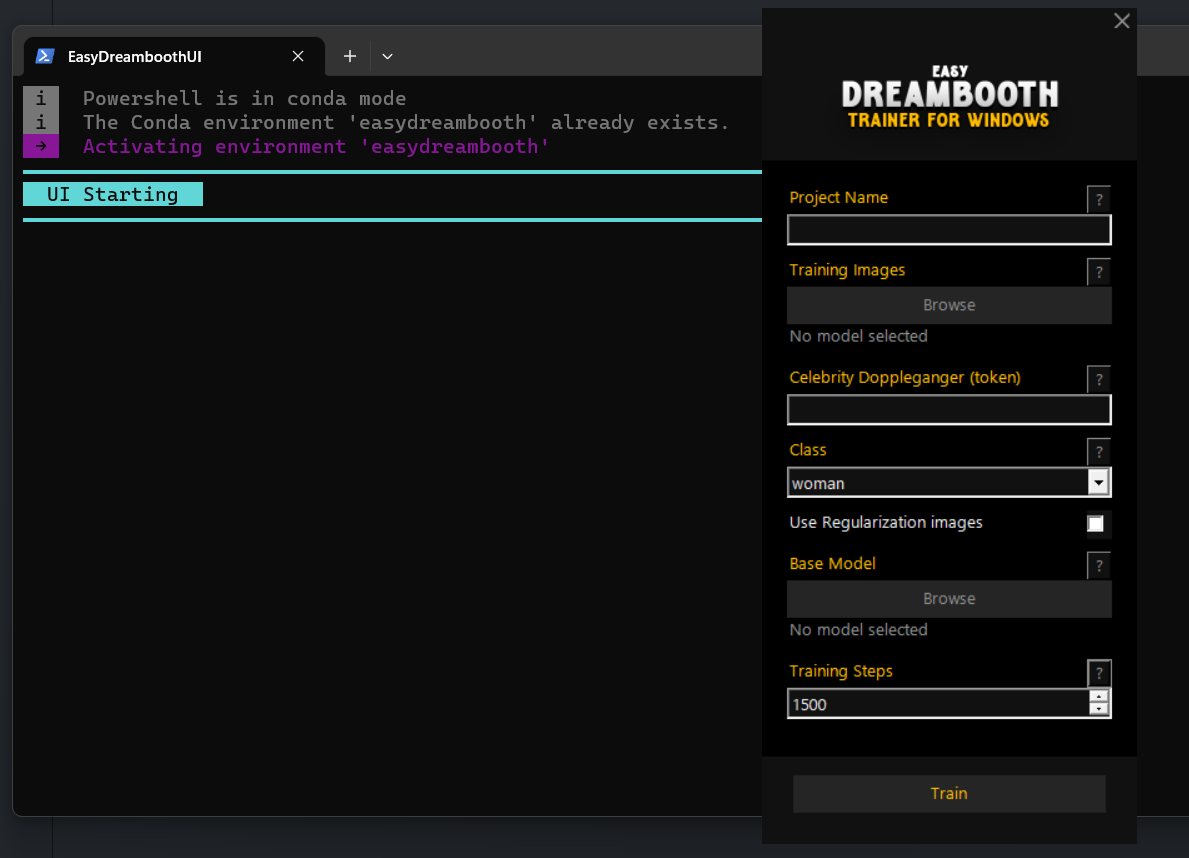
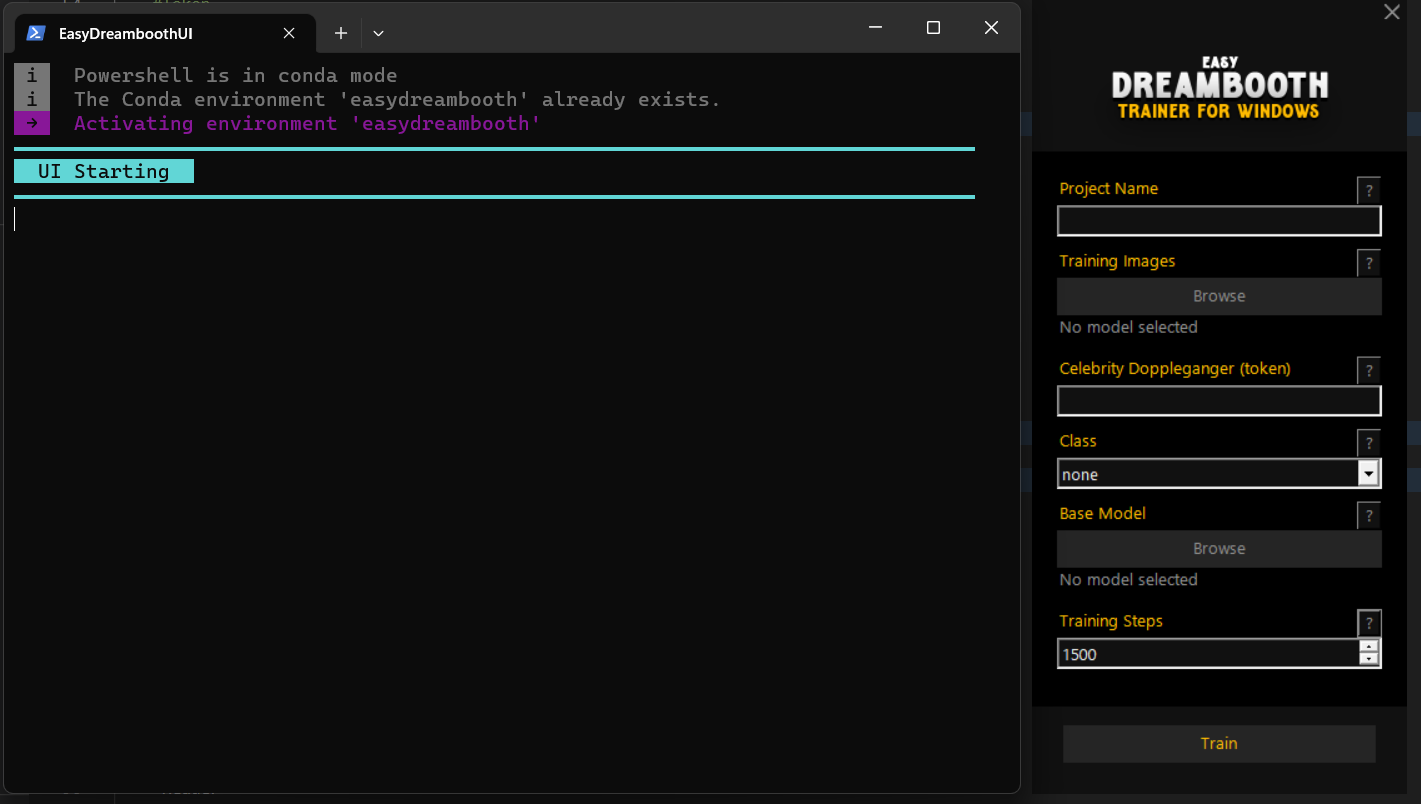
Removing the checkbox and using "none" from the dropdown instead as class is useless without regu images
Also the celeb name isn't trimmed/tolower anymore

diff --git a/README.md b/README.md
@@ -8,8 +8,7 @@
   - [ Project Name](#-project-name)
   - [ The training images](#-the-training-images)
   - [ Celebrity doppleganger](#-celebrity-doppleganger)
-  - [ Class](#-class)
-  - [ Use regularization image (not sure it's a good idea)](#-use-regularization-image-not-sure-its-a-good-idea)
+  - [ Class *("none" recommended)*](#-class-none-recommended)
   - [ Base Model](#-base-model)
   - [ Training Steps](#-training-steps)
   - [ Train \& Use](#-train--use)
@@ -77,11 +76,10 @@ Browse to the folder with the images of your subject. **Follow the instructions 
    2. **Your celebrity doppleganger must exist in the model you'll use for the training**, try prompting their name in your prefered stable diffusion generation program with the model selected, if they're faithfully generated then you're good, else find another one, it's okay if they only vaguely resemble you as long as there's a little something, and the model you'll use to resume training can generate them faithfully.
    3. Enter their name in the "**Celebrity Doppleganger (token)**" field
 
-## <a name="class"></a> Class
-What is your subject, a man, a woman or a person ?
+## <a name="class"></a> Class *("none" recommended)*
+What is your subject, a man, a woman or a person ? This will download a set of pre generated pictures of the class you've selected (see above) to compare them with how they look in the trained so everybody in the model doesn't end up looking like your subject.
 
-## <a name="use-regularization-image"></a> Use regularization image (not sure it's a good idea)
-This will download a set of pre generated pictures of the class you've selected (see above) to compare them with how they look in the trained so everybody in the model doesn't end up looking like your subject (honestly, this isn't effective and make things very slow)
+**Honestly, this isn't effective and make things twice as slow**
 
 ## <a name="base-model"></a> Base Model
 Browse to the model you'll use as a base for training, we recommend using [Stable Diffusion V1.5 with the New VAE](https://anga.tv/ems/model.ckpt) as this works best.
